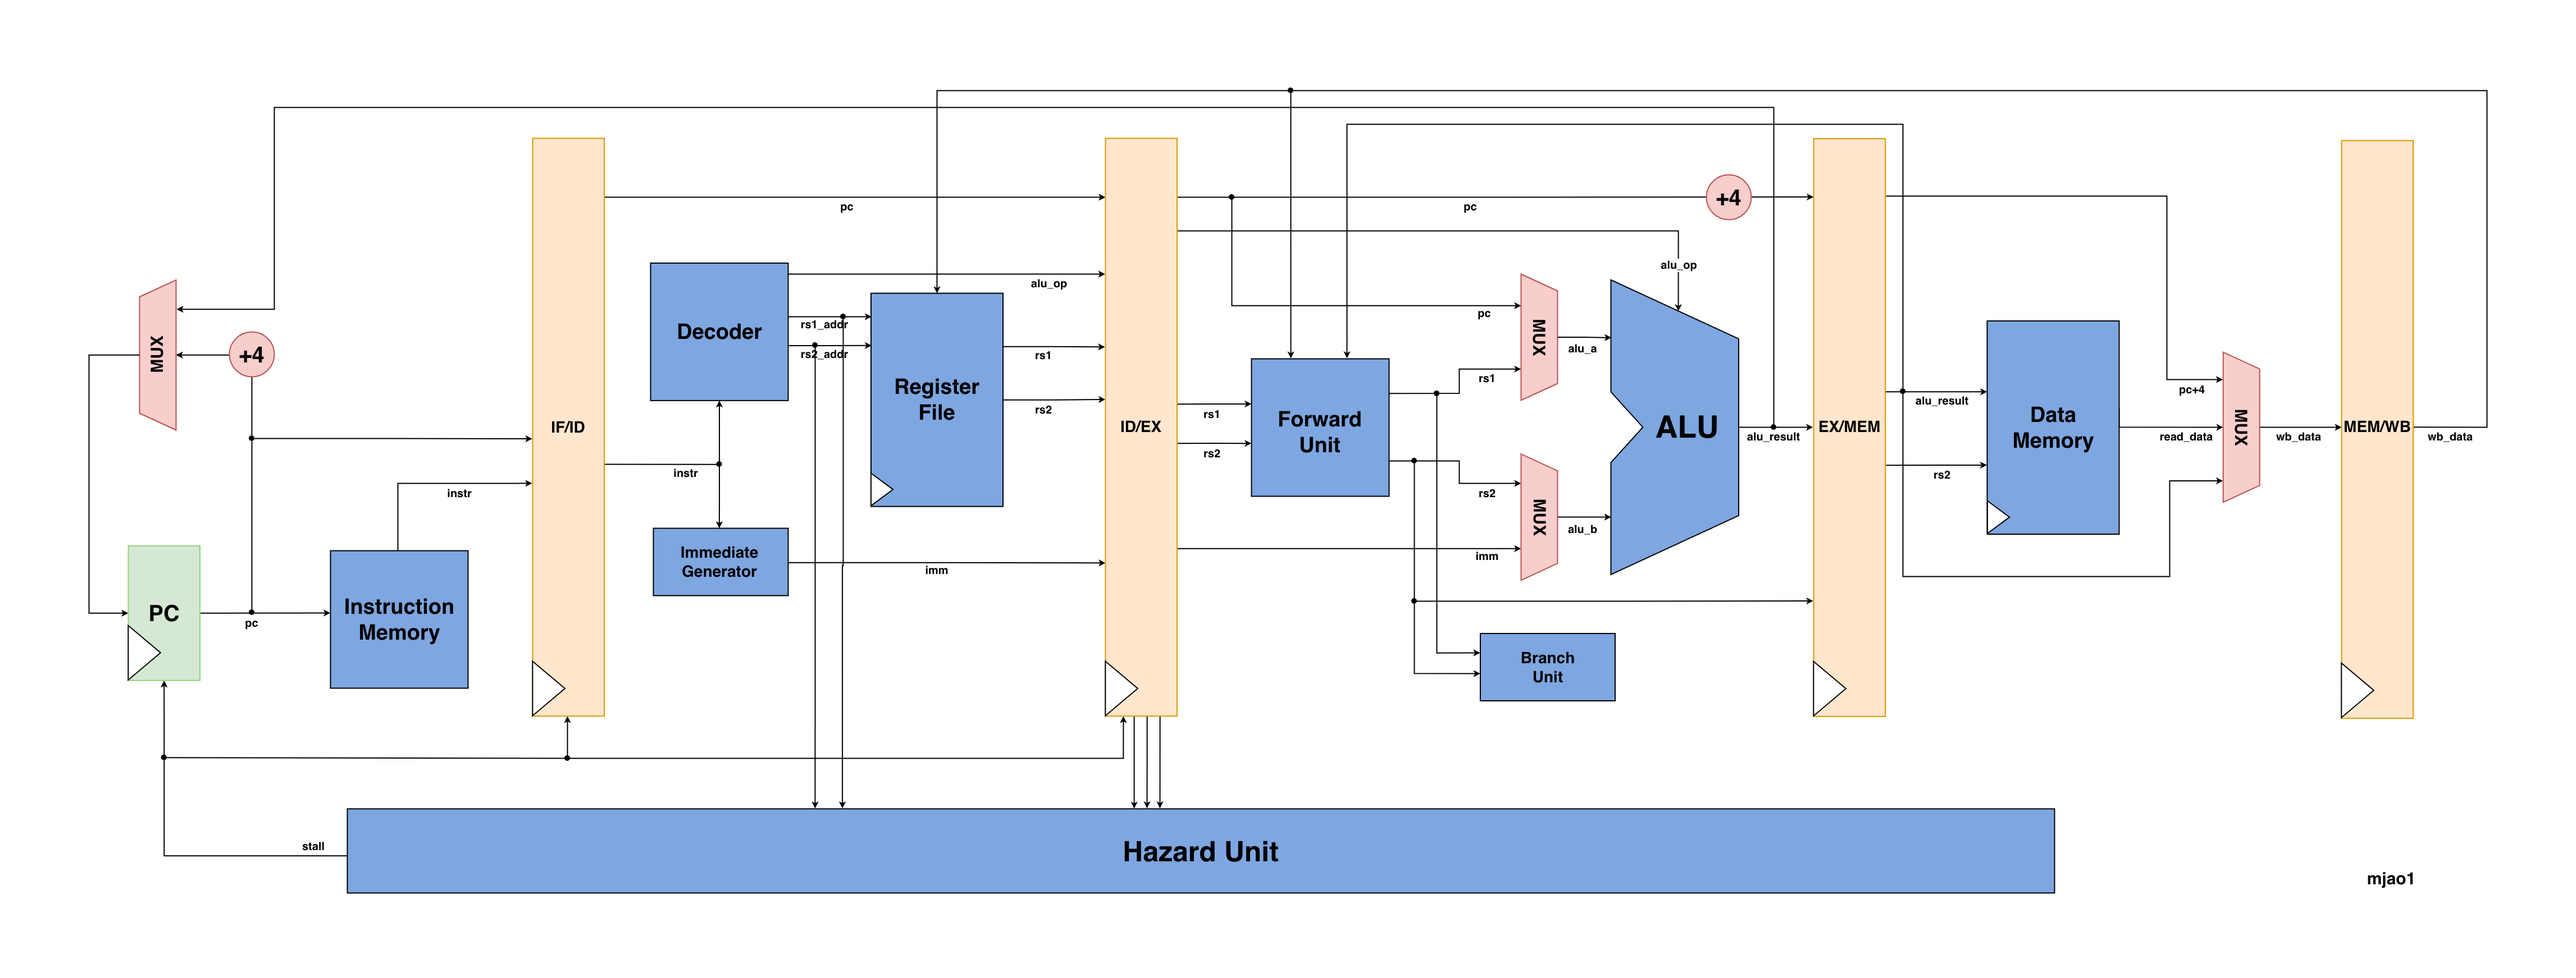
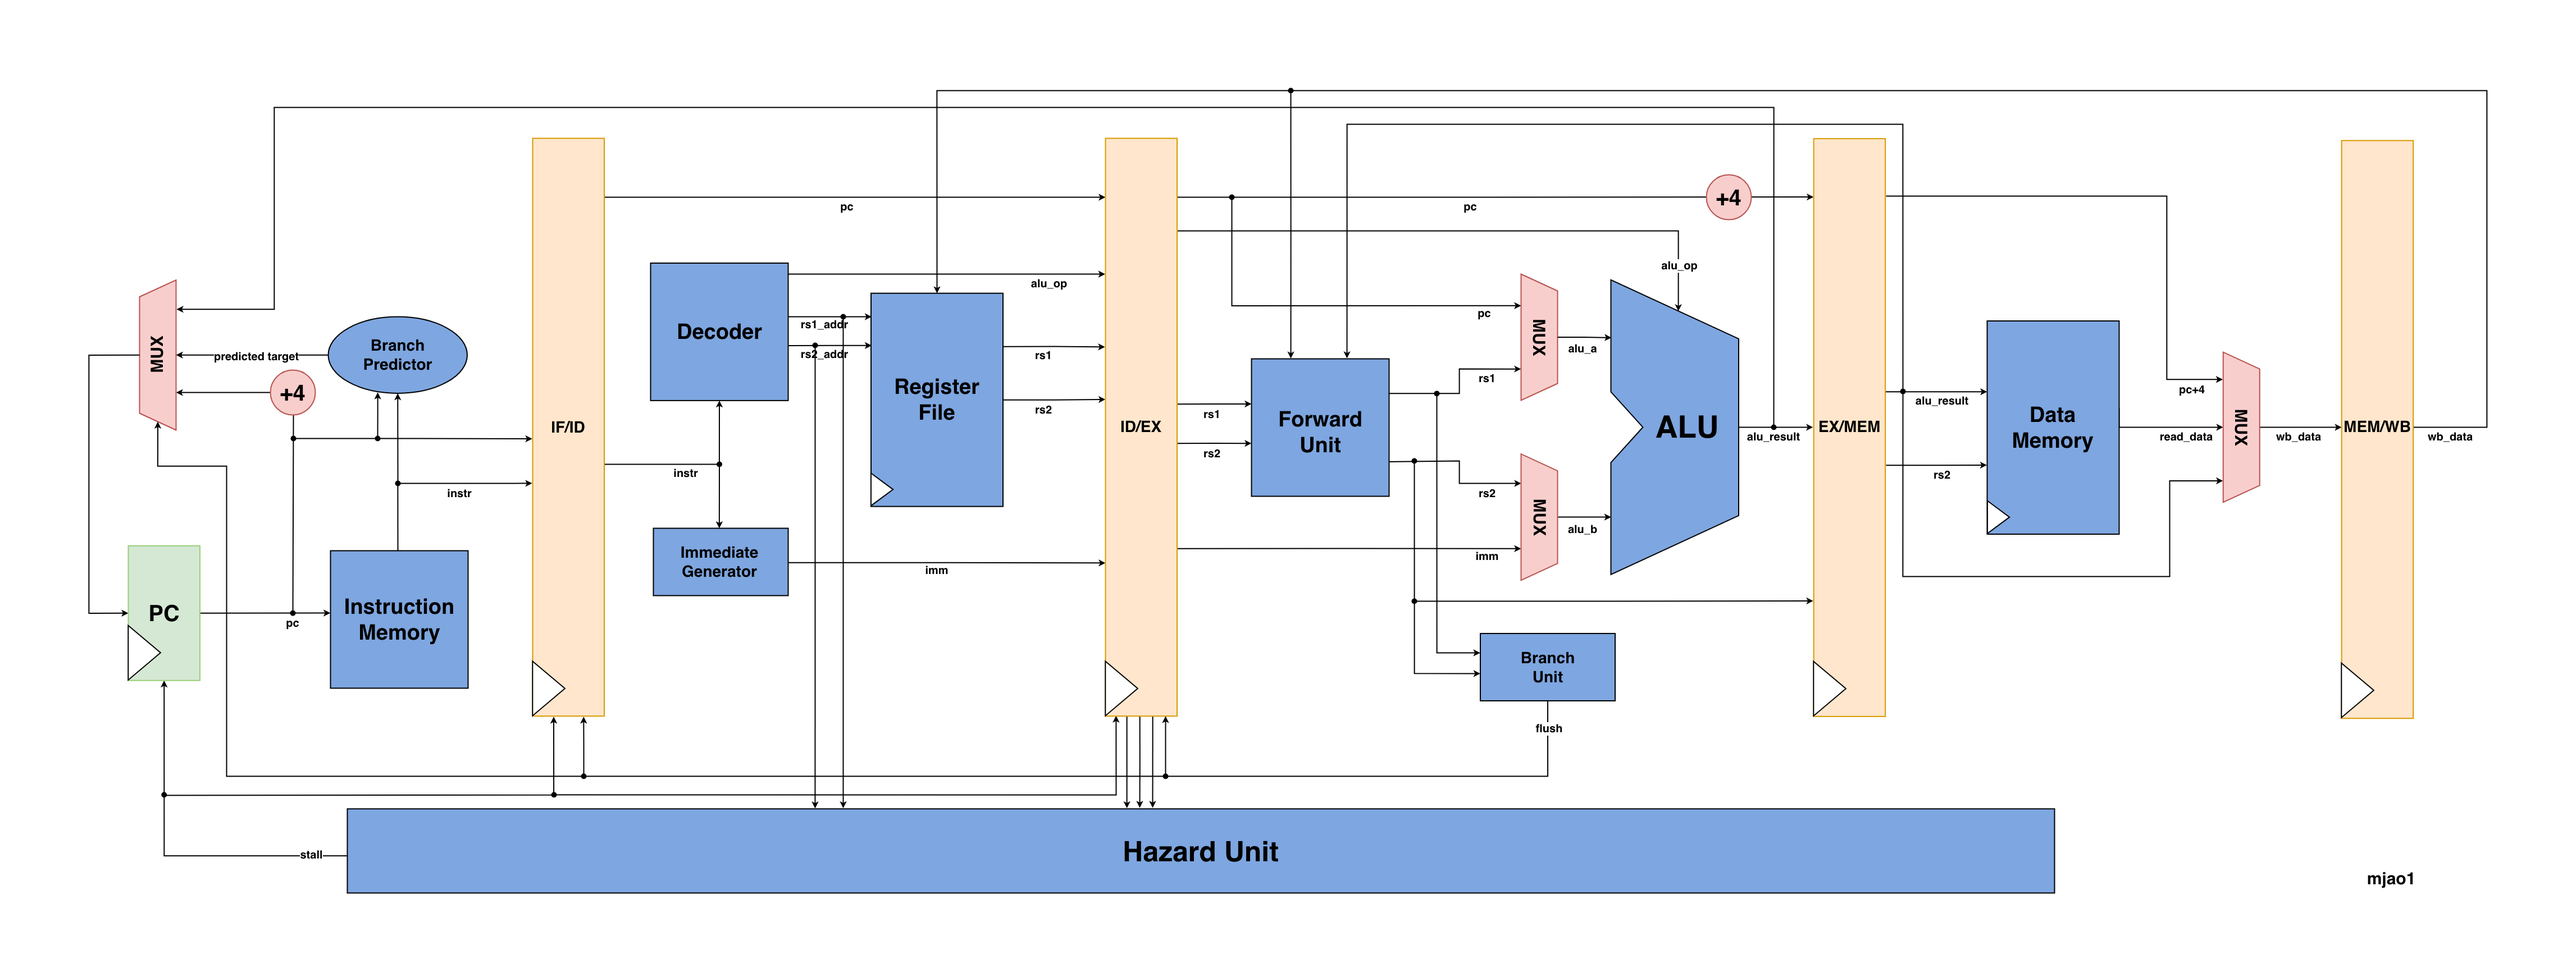
implement BTFNT branch prediction

Changed region(s): [[0.1559, 0.7435, 0.4676, 0.8365], [0.0624, 0.3098, 0.1871, 0.4337], [0.7794, 0.4337, 0.8106, 0.4647]]

diff --git a/README.md b/README.md
@@ -2,7 +2,7 @@
 
 ## Project Overview
 
-A synthesizable 5-stage pipelined RISC-V RV32I processor in SystemVerilog, aimed at ASIC-style flows with simulation using Icarus Verilog. The core implements the main RV32I user level integer operations: ALU ops, loads/stores, branches, jumps, LUI/AUIPC, and JAL/JALR. The pipeline is complete for a classic in-order design: operand forwarding from EX/MEM and MEM/WB, hazard handling via load–use stalls, and control flushes on taken branches and jumps. FENCE and SYSTEM (ECALL/EBREAK/CSR) are treated as NOPs. Instruction memory is loaded via a testbench write port or `$readmemh`, data memory is byte-addressable RAM with a configurable base address for bare metal programs. The microarchitecture design is shown below (most address and control signals are ommitted for simplicity).
+A synthesizable 5-stage pipelined RISC-V RV32I processor in SystemVerilog, aimed at ASIC-style flows with simulation using Icarus Verilog. The core implements the main RV32I user level integer operations: ALU ops, loads/stores, branches, jumps, LUI/AUIPC, and JAL/JALR. The pipeline is complete for a classic in-order design: operand forwarding from EX/MEM and MEM/WB, hazard handling via load–use stalls, BTFNT branch prediction, and control flushes on taken branches and jumps. FENCE and SYSTEM (ECALL/EBREAK/CSR) are treated as NOPs. Instruction memory is loaded via a testbench write port or `$readmemh`, data memory is byte-addressable RAM with a configurable base address for bare metal programs. The microarchitecture design is shown below (most address and control signals are ommitted for simplicity).
 
 <div align="center">
 <img src="assets/rv32i-diagram.png" width="100%" alt="Microarchitecture block diagram" width="720"/>
@@ -123,7 +123,7 @@ iverilog -g2012 -o sim/tb_hazard_unit.vvp rtl/rv32i_pkg.sv rtl/hazard_unit.sv si
 # Load-use hazard
 iverilog -g2012 -o sim/tb_load_use_hazard.vvp rtl/rv32i_pkg.sv sim/tb_load_use_hazard.sv rtl/a*.sv rtl/b*.sv rtl/d*.sv rtl/f*.sv rtl/h*.sv rtl/i*.sv rtl/register_file.sv rtl/rv32i_cpu.sv && vvp sim/tb_load_use_hazard.vvp
 
-# Branch cycle count benchmark
+# Branch cycle count benchmark (current: 227)
 iverilog -g2012 -o sim/tb_branch_benchmark.vvp rtl/rv32i_pkg.sv rtl/alu.sv rtl/register_file.sv rtl/data_memory.sv rtl/instruction_memory.sv rtl/decoder.sv rtl/immediate_generator.sv rtl/branch_unit.sv rtl/forward_unit.sv rtl/hazard_unit.sv rtl/rv32i_cpu.sv sim/tb_branch_benchmark.sv && vvp sim/tb_branch_benchmark.vvp
 ```
 
